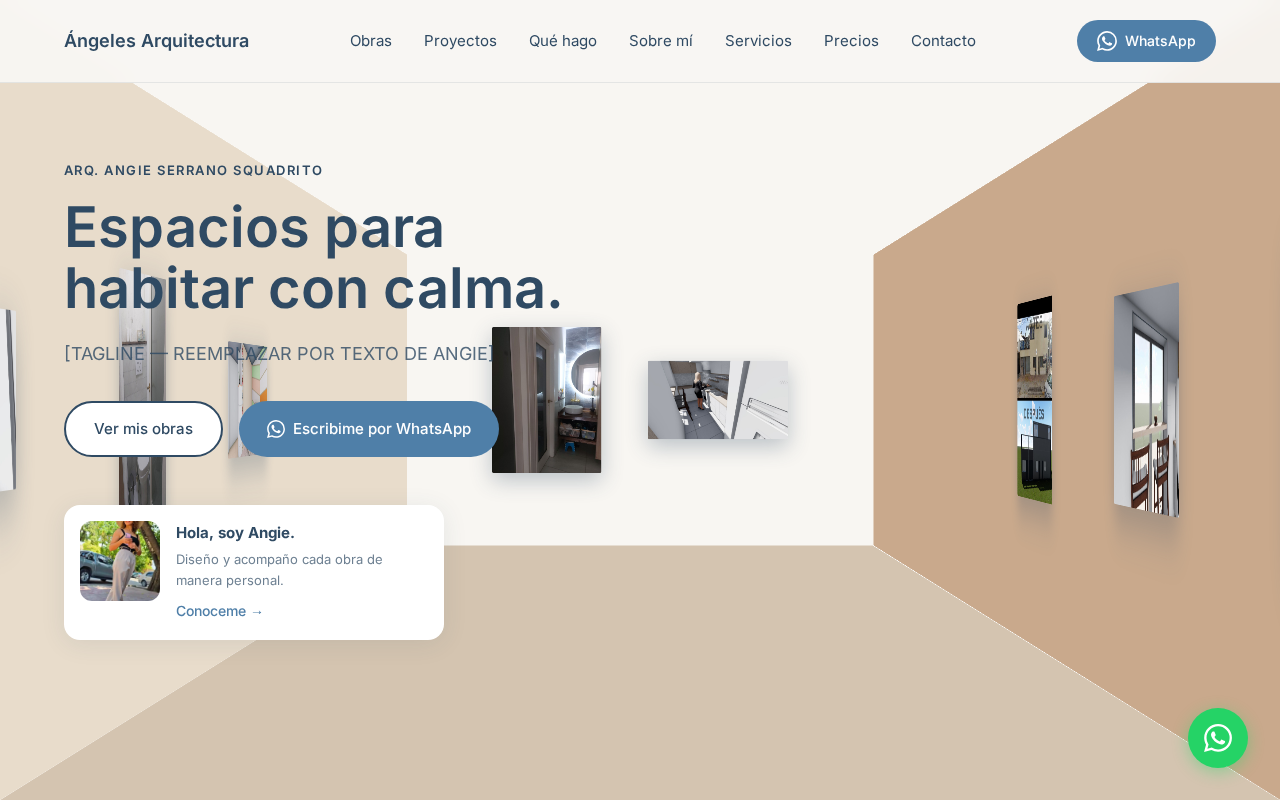
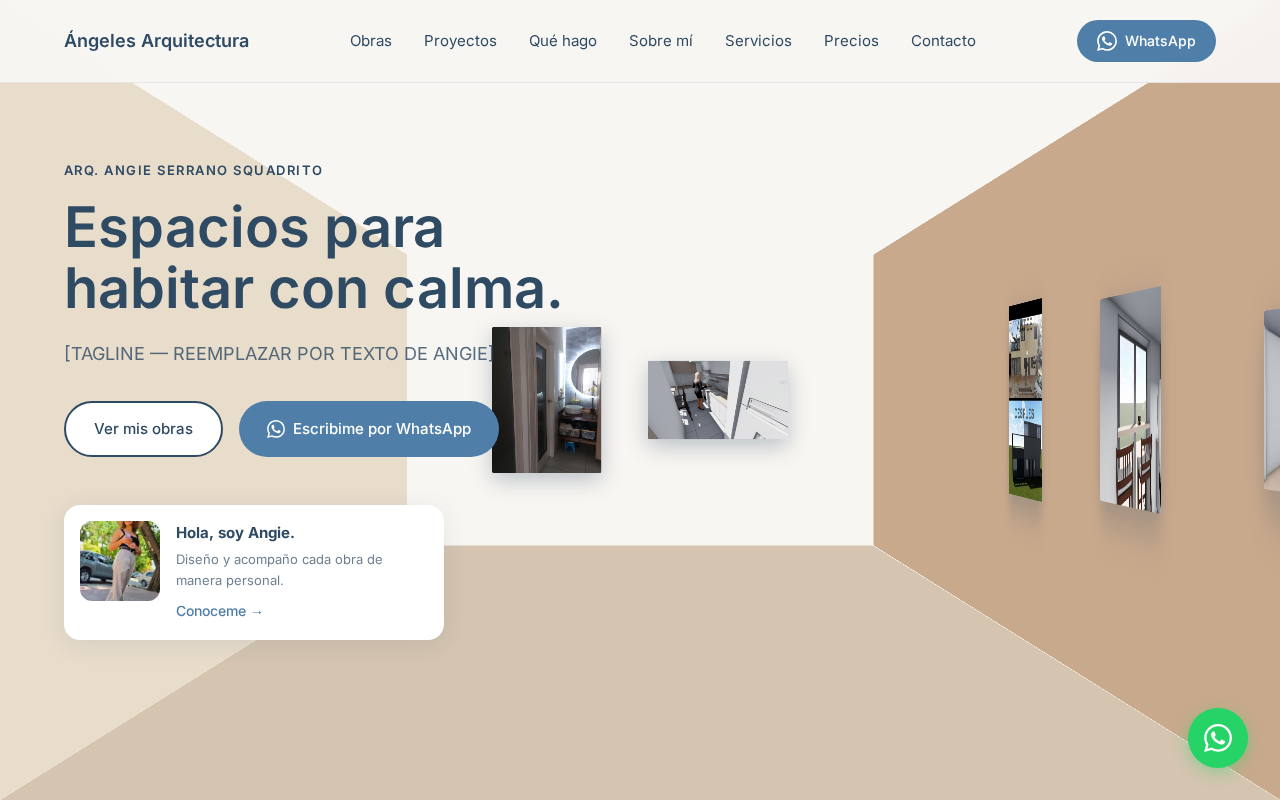
fix: remove left wall artworks to prevent text overlap
- Left wall now empty (text overlays that area)
- Back wall: 2 artworks (bathroom, kitchen)
- Right wall: 3 artworks (facade, kitchen, bedroom)
- All images clean, no social media text
- Desktop screenshot verified: no overlap
- All 3 tests pass

diff --git a/index.html b/index.html
@@ -59,14 +59,11 @@
                         <img class="hero-gallery-room__img" src="assets/obras/cocina-1.jpg" alt="Amoblamiento de cocina" loading="eager">
                     </div>
                     <div class="hero-gallery-room__side hero-gallery-room__side--left">
-                        <img class="hero-gallery-room__img" src="assets/obras/cocina-2.jpg" alt="Amoblamiento de cocina" loading="eager">
-                        <img class="hero-gallery-room__img" src="assets/obras/bano-foto-2.jpg" alt="Transformación de baño" loading="eager">
-                        <img class="hero-gallery-room__img" src="assets/obras/dormitorio-1.jpg" alt="Diseño de dormitorios" loading="eager">
                     </div>
                     <div class="hero-gallery-room__side hero-gallery-room__side--right">
                         <img class="hero-gallery-room__img" src="assets/obras/fachada3-b.jpg" alt="Diseño de fachada" loading="eager">
                         <img class="hero-gallery-room__img" src="assets/obras/cocina-3.jpg" alt="Amoblamiento de cocina" loading="eager">
-                        <img class="hero-gallery-room__img" src="assets/obras/bano-foto-3.jpg" alt="Transformación de baño" loading="eager">
+                        <img class="hero-gallery-room__img" src="assets/obras/dormitorio-1.jpg" alt="Diseño de dormitorios" loading="eager">
                     </div>
                     <div class="hero-gallery-room__side hero-gallery-room__side--bottom"></div>
                 </div>
